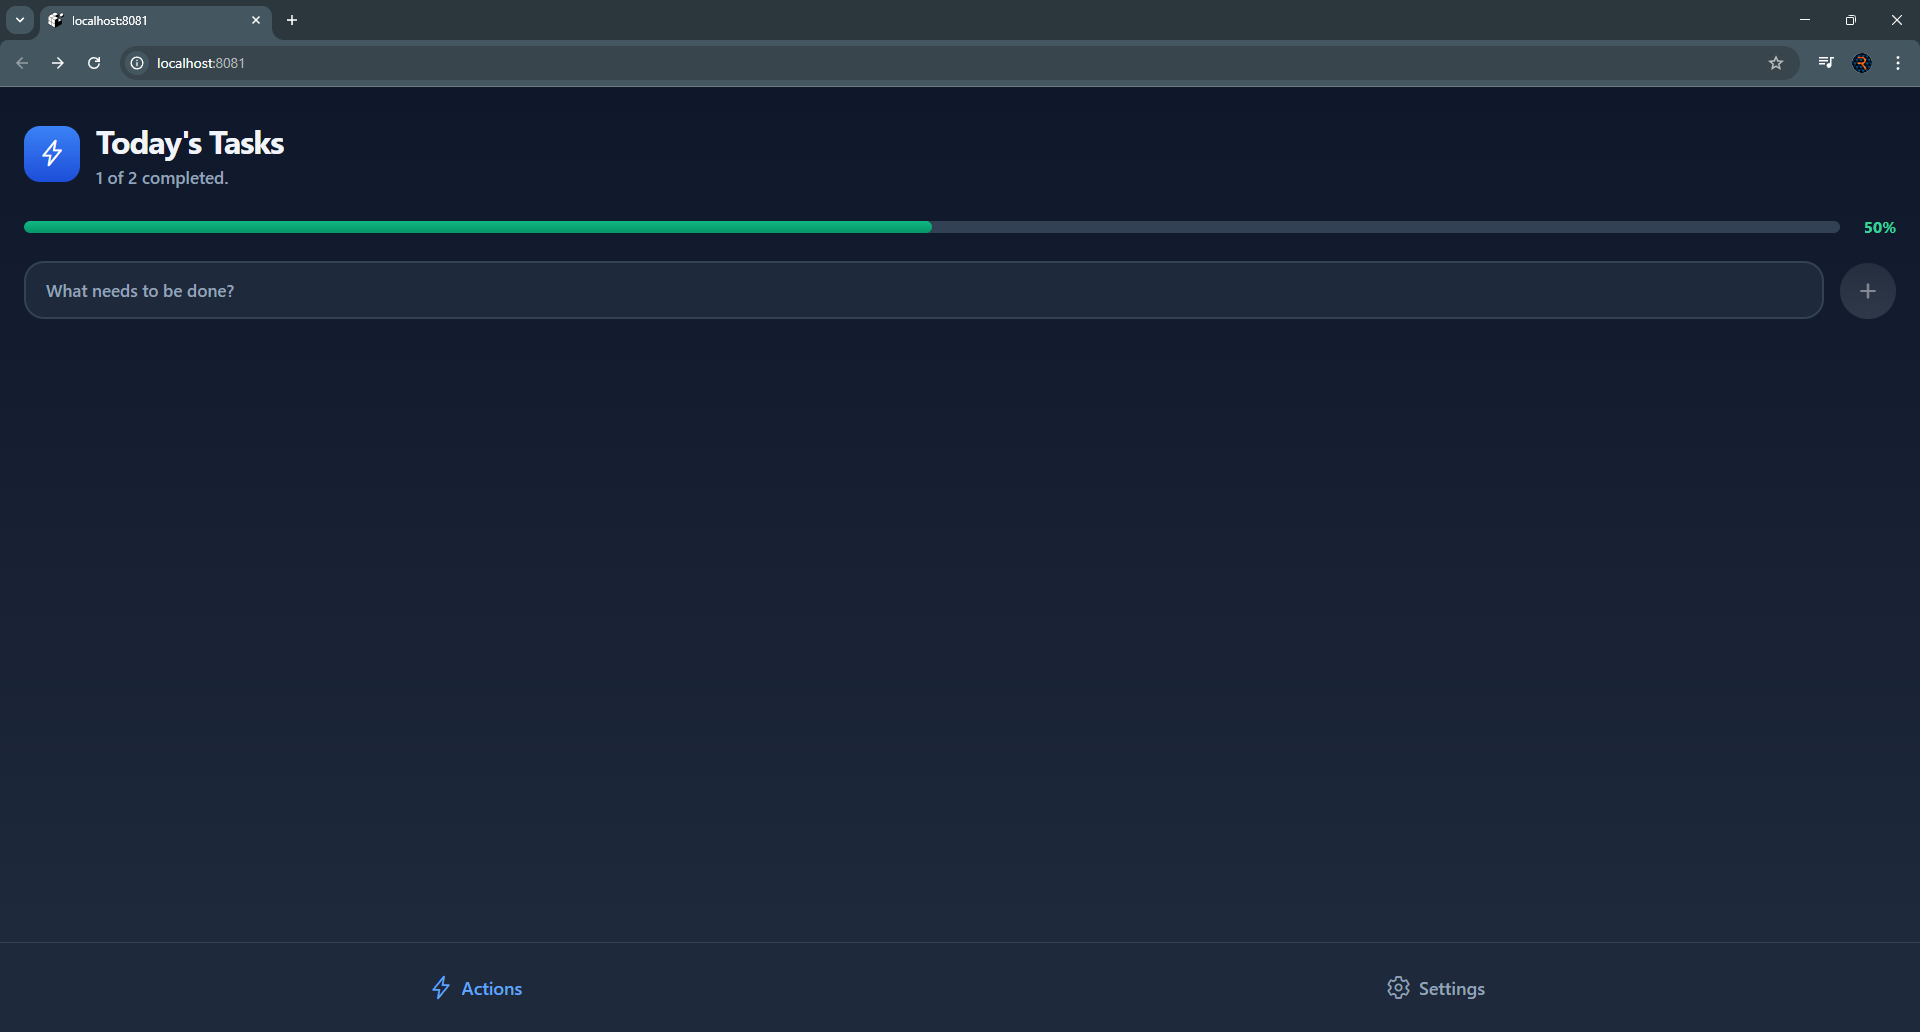
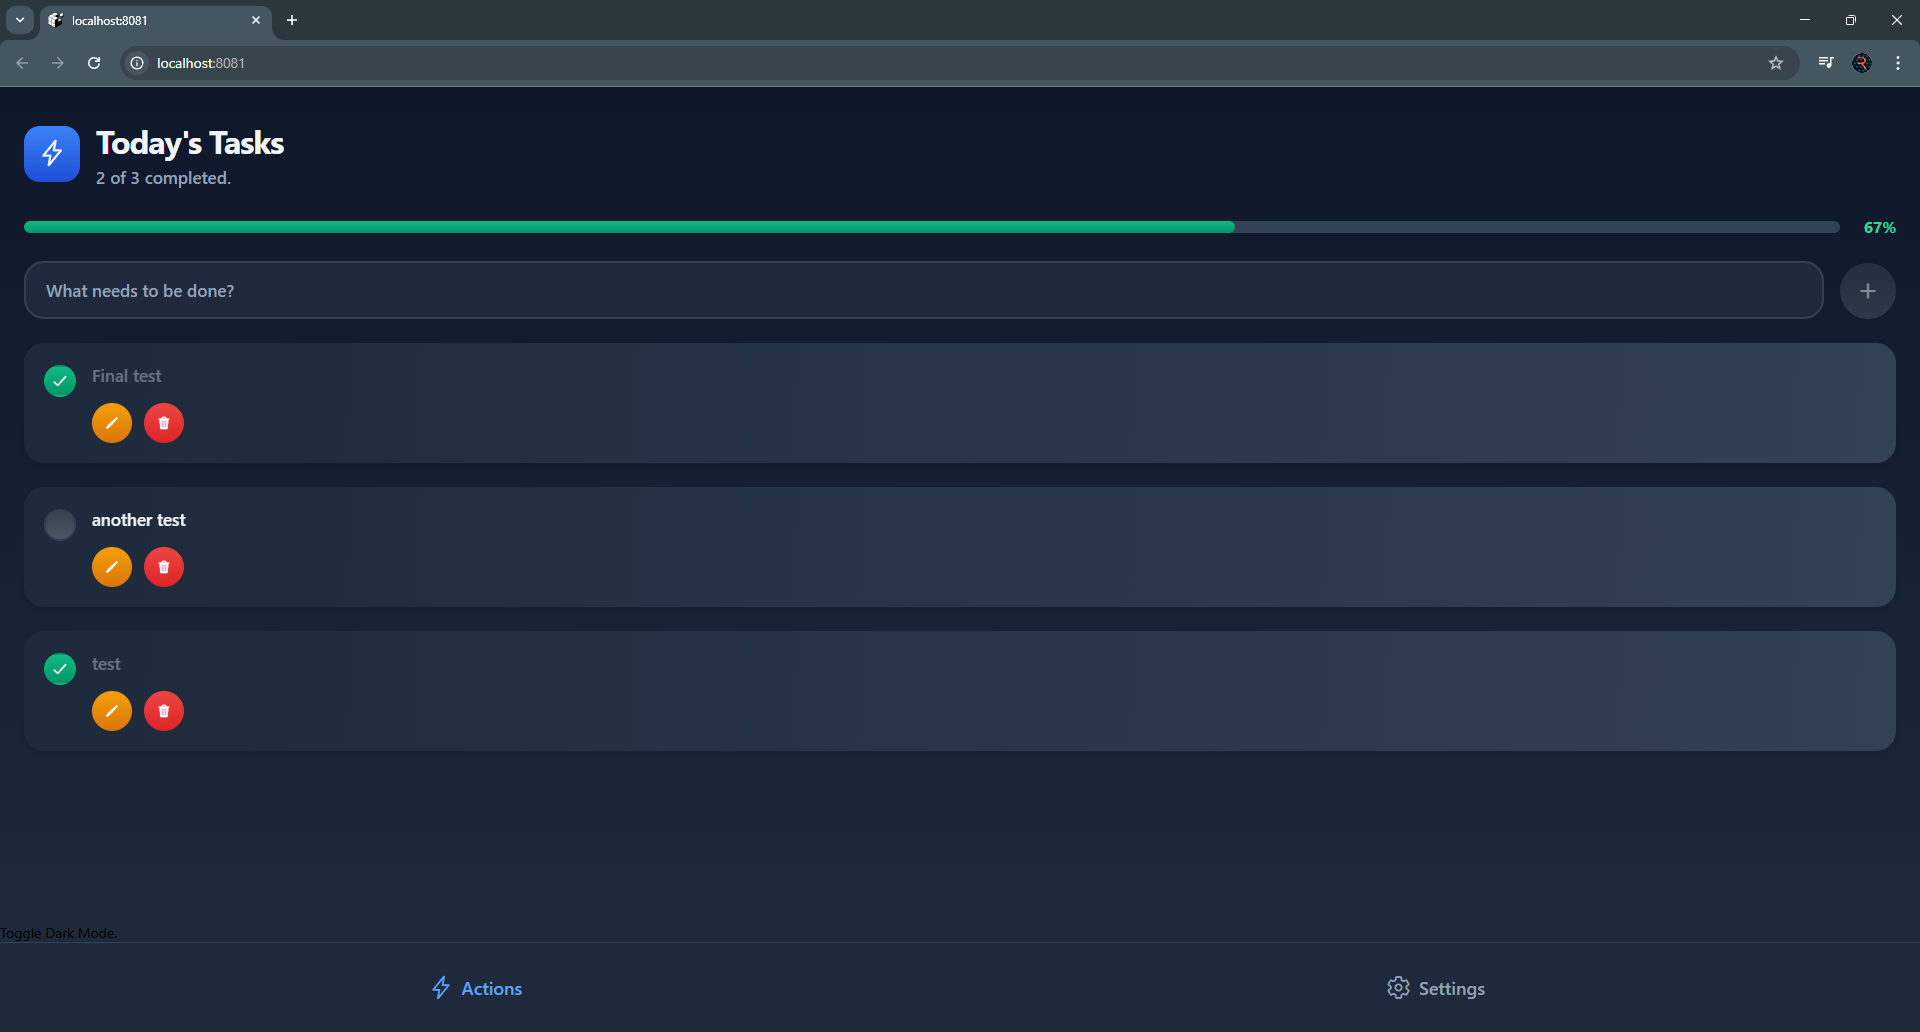
Task components

diff --git a/app/(tabs)/index.tsx b/app/(tabs)/index.tsx
@@ -1,24 +1,131 @@
 import { createHomeStyles } from "@/assets/styles/home.style";
+import EmptyState from "@/components/EmtpyState";
 import Header from "@/components/Header";
+import LoadingSpinner from "@/components/LoadingSpinner";
 import TodoInput from "@/components/TodoInput";
+import { api } from "@/convex/_generated/api";
+import { Doc, Id } from "@/convex/_generated/dataModel";
 import useTheme from "@/hooks/useTheme";
+import { Ionicons } from "@expo/vector-icons";
+import { useMutation, useQuery } from "convex/react";
 import { LinearGradient } from "expo-linear-gradient";
-import { StatusBar, Text, TouchableOpacity } from "react-native";
+import {
+  Alert,
+  FlatList,
+  StatusBar,
+  Text,
+  TouchableOpacity,
+  View,
+} from "react-native";
 import { SafeAreaView } from "react-native-safe-area-context";
+
+type Todo = Doc<"todos">;
 
 export default function Index() {
   const { toggleDarkMode, colours } = useTheme();
   const homeStyles = createHomeStyles(colours);
+  const todos = useQuery(api.todos.getTodos);
+  const toggleTodo = useMutation(api.todos.toggleTodo);
+  const isLoading = todos === undefined;
+  if (isLoading) return <LoadingSpinner />;
+
+  const handleToggleTodo = async (id: Id<"todos">) => {
+    try {
+      await toggleTodo({ id });
+    } catch (error) {
+      console.log("Failed to toggle todo.", error);
+      Alert.alert("Error", "Failed to toggle todo.");
+    }
+  };
+
+  const renderTodoItem = ({ item }: { item: Todo }) => {
+    return (
+      <View style={homeStyles.todoItemWrapper}>
+        <LinearGradient
+          colors={colours.gradients.surface}
+          style={homeStyles.todoItem}
+          start={{ x: 0, y: 0 }}
+          end={{ x: 1, y: 1 }}
+        >
+          <TouchableOpacity
+            style={homeStyles.checkbox}
+            activeOpacity={0.7}
+            onPress={() => handleToggleTodo(item._id)}
+          >
+            <LinearGradient
+              colors={
+                item.isComplete
+                  ? colours.gradients.success
+                  : colours.gradients.muted
+              }
+              style={[
+                homeStyles.checkboxInner,
+                {
+                  borderColor: item.isComplete ? "transparent" : colours.border,
+                },
+              ]}
+            >
+              {item.isComplete && (
+                <Ionicons name="checkmark" size={18} color="#fff" />
+              )}
+            </LinearGradient>
+          </TouchableOpacity>
+          <View style={homeStyles.todoTextContainer}>
+            <Text
+              style={[
+                homeStyles.todoText,
+                item.isComplete && {
+                  textDecoratedLine: "line-through",
+                  color: colours.textMuted,
+                  opacity: 0.6,
+                },
+              ]}
+            >
+              {item.text}
+            </Text>
+
+            <View style={homeStyles.todoActions}>
+              <TouchableOpacity onPress={() => {}} activeOpacity={0.8}>
+                <LinearGradient
+                  colors={colours.gradients.warning}
+                  style={homeStyles.actionButton}
+                >
+                  <Ionicons name="pencil" size={14} color="#fff" />
+                </LinearGradient>
+              </TouchableOpacity>
+              <TouchableOpacity onPress={() => {}} activeOpacity={0.8}>
+                <LinearGradient
+                  colors={colours.gradients.danger}
+                  style={homeStyles.actionButton}
+                >
+                  <Ionicons name="trash" size={14} color="#fff" />
+                </LinearGradient>
+              </TouchableOpacity>
+            </View>
+          </View>
+        </LinearGradient>
+      </View>
+    );
+  };
+
   return (
     <LinearGradient
       colors={colours.gradients.background}
       style={homeStyles.container}
     >
       <StatusBar barStyle={colours.statusBarStyle} />
-      <Header />
-      <TodoInput />
       <SafeAreaView style={homeStyles.safeArea}>
-        <Text>Actions.</Text>
+        <Header />
+        <TodoInput />
+        <FlatList
+          data={todos}
+          renderItem={renderTodoItem}
+          keyExtractor={(item) => item._id}
+          style={homeStyles.todoList}
+          contentContainerStyle={homeStyles.todoListContent}
+          ListEmptyComponent={<EmptyState />}
+          //showsVerticalScrollIndicator={false}
+        />
         <TouchableOpacity onPress={toggleDarkMode}>
           <Text>Toggle Dark Mode.</Text>
         </TouchableOpacity>

diff --git a/constants/colours.ts b/constants/colours.ts
@@ -12,11 +12,12 @@ export interface ColourScheme {
   gradients: {
     background: [string, string];
     surface: [string, string];
-    textMuted: [string, string];
+    muted: [string, string];
     primary: [string, string];
     success: [string, string];
     warning: [string, string];
     danger: [string, string];
+    empty: [string, string];
   };
   backgrounds: {
     input: string;
@@ -39,11 +40,12 @@ export const lightColours: ColourScheme = {
   gradients: {
     background: ["#f8fafc", "#e2e8f0"],
     surface: ["#ffffff", "#f8fafc"],
-    textMuted: ["#9ca3af", "#6b7280"],
+    muted: ["#9ca3af", "#6b7280"],
     primary: ["#3b82f6", "#1d4ed8"],
     success: ["#10b981", "#059669"],
     warning: ["#f59e0b", "#d97706"],
     danger: ["#ef4444", "#dc2626"],
+    empty: ["#f3f4f6", "#e5e7eb"],
   },
   backgrounds: {
     input: "#ffffff",
@@ -66,11 +68,12 @@ export const darkColours: ColourScheme = {
   gradients: {
     background: ["#0f172a", "#1e293b"],
     surface: ["#1e293b", "#334155"],
-    textMuted: ["#374151", "#4b5563"],
+    muted: ["#374151", "#4b5563"],
     primary: ["#3b82f6", "#1d4ed8"],
     success: ["#10b981", "#059669"],
     warning: ["#f59e0b", "#d97706"],
     danger: ["#ef4444", "#dc2626"],
+    empty: ["#374151", "#4b5563"],
   },
   backgrounds: {
     input: "#1e293b",

diff --git a/components/EmtpyState.tsx b/components/EmtpyState.tsx
@@ -1,0 +1,32 @@
+import { createHomeStyles } from "@/assets/styles/home.style";
+import useTheme from "@/hooks/useTheme";
+import { Ionicons } from "@expo/vector-icons";
+import { LinearGradient } from "expo-linear-gradient";
+import { Text, View } from "react-native";
+
+const EmptyState = () => {
+  const { colours } = useTheme();
+
+  const homeStyles = createHomeStyles(colours);
+
+  return (
+    <View style={homeStyles.emptyContainer}>
+      <LinearGradient
+        colors={colours.gradients.empty}
+        style={homeStyles.emptyIconContainer}
+      >
+        <Ionicons
+          name="clipboard-outline"
+          size={60}
+          color={colours.textMuted}
+        />
+      </LinearGradient>
+      <Text style={homeStyles.emptyText}>No todos yet!</Text>
+      <Text style={homeStyles.emptySubtext}>
+        Add your first todo above to get started
+      </Text>
+    </View>
+  );
+};
+
+export default EmptyState;

diff --git a/components/LoadingSpinner.tsx b/components/LoadingSpinner.tsx
@@ -1,0 +1,22 @@
+import { createHomeStyles } from "@/assets/styles/home.style";
+import { LinearGradient } from "expo-linear-gradient";
+import { ActivityIndicator, Text, View } from "react-native";
+import useTheme from "../hooks/useTheme";
+
+const LoadingSpinner = () => {
+  const { colours } = useTheme();
+  const homeStyles = createHomeStyles(colours);
+  return (
+    <LinearGradient
+      colors={colours.gradients.background}
+      style={homeStyles.container}
+    >
+      <View style={homeStyles.loadingContainer}>
+        <ActivityIndicator size="large" color={colours.primary} />
+        <Text style={homeStyles.loadingText}>Loading your todos...</Text>
+      </View>
+    </LinearGradient>
+  );
+};
+
+export default LoadingSpinner;

diff --git a/components/TodoInput.tsx b/components/TodoInput.tsx
@@ -43,7 +43,7 @@ const TodoInput = () => {
             colors={
               newTodo.trim()
                 ? colours.gradients.primary
-                : colours.gradients.textMuted
+                : colours.gradients.muted
             }
             style={[
               homeStyles.addButton,
